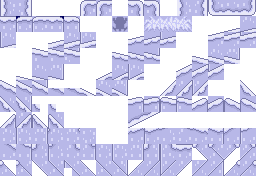
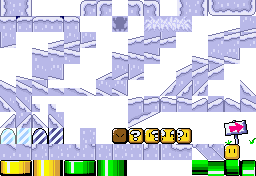
Completado el nivel de hielo.

Changed region(s): [[0.0, 0.6818, 1.0, 1.0], [0.0, 0.7102, 0.3125, 0.8239]]

diff --git a/src/utilidades/Archivos.java b/src/utilidades/Archivos.java
@@ -37,7 +37,7 @@ public class Archivos {
     static final int KOOPA_ROJO = 15;
     static final int SPINY = 20;
     public static ArrayList<Enemigo> getEnemigos(){
-        BufferedImage img = cargarImagen(ImagenURL.INFO_NIVEL_UNO);
+        BufferedImage img = cargarImagen(ImagenURL.INFO_NIVEL_HIELO);
         ArrayList<Enemigo> lista = new ArrayList();
         for (int j = 0; j < img.getHeight(); ++j)
             for (int i = 0; i < img.getWidth(); ++i){
@@ -57,7 +57,7 @@ public class Archivos {
     // El valor del color rojo de cada pixel del mapa de bits representa un bloque del nivel
 
     public static int[][] informacionDelNivel() {
-        BufferedImage img = cargarImagen(ImagenURL.INFO_NIVEL_UNO);
+        BufferedImage img = cargarImagen(ImagenURL.INFO_NIVEL_HIELO);
         int[][] infoNivel = new int[img.getHeight()][img.getWidth()];
 
         for (int j = 0; j < img.getHeight(); ++j)

diff --git a/src/utilidades/ImagenURL.java b/src/utilidades/ImagenURL.java
@@ -8,10 +8,13 @@ public enum ImagenURL {
     TOAD_SPRITESHEET("graficos/players/toadSprites.png"),
     FONDO("graficos/fondo/fondo.png"),
     FONDO_CAVERNA("graficos/fondo/fondoCaverna.png"),
+    FONDO_HIELO("graficos/fondo/fondoHielo.png"),
     NIVEL_CAVERNA("graficos/niveles/cavernaGravilla.png"),
     NIVEL_SUPERFICIE("graficos/niveles/superficie.png"),
+    NIVEL_HIELO("graficos/niveles/superficieHielo.png"),
     INFO_NIVEL_UNO("niveles/level_one_data.png"),
     INFO_NIVEL_CAVERNA("niveles/level_caverna_data.png"),
+    INFO_NIVEL_HIELO("niveles/level_hielo_data.png"),
     ENEMY_GOOMBA("graficos/enemigos/goombaSprites.png"),
     ENEMY_KOOPAVERDE("graficos/enemigos/koopaVerdeSprites.png"),
     ENEMY_KOOPAROJO("graficos/enemigos/koopaRojoSprites.png"),

diff --git a/src/niveles/ManejaNiveles.java b/src/niveles/ManejaNiveles.java
@@ -25,7 +25,7 @@ public class ManejaNiveles {
     }
 
     public void cargarSpritesNivel() {
-        BufferedImage img = cargarImagen(ImagenURL.NIVEL_SUPERFICIE);
+        BufferedImage img = cargarImagen(ImagenURL.NIVEL_HIELO);
         nivelSprites = new BufferedImage[16*11];
         for (int j = 0; j < 11; j++) {
             for (int i = 0; i < 16; i++) {
@@ -33,7 +33,7 @@ public class ManejaNiveles {
                 nivelSprites[indice] = img.getSubimage(i * 16, j * 16, 16, 16);
             }
         }
-        fondo = cargarImagen(ImagenURL.FONDO);
+        fondo = cargarImagen(ImagenURL.FONDO_HIELO);
     }
 
     public void render(Graphics g, int lvlOffset) {
